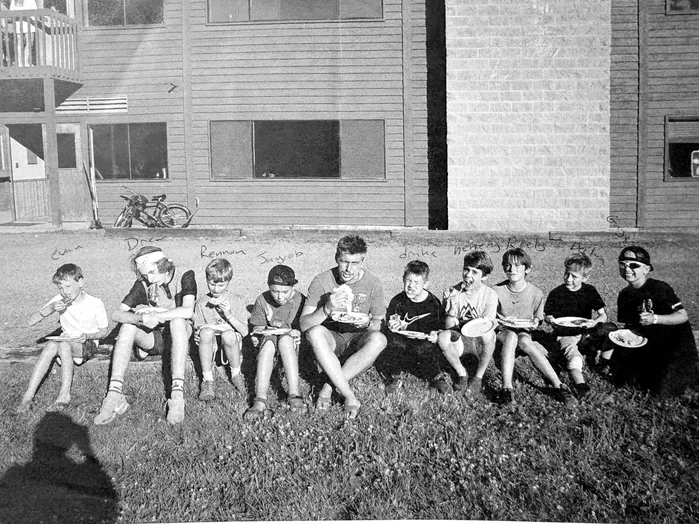
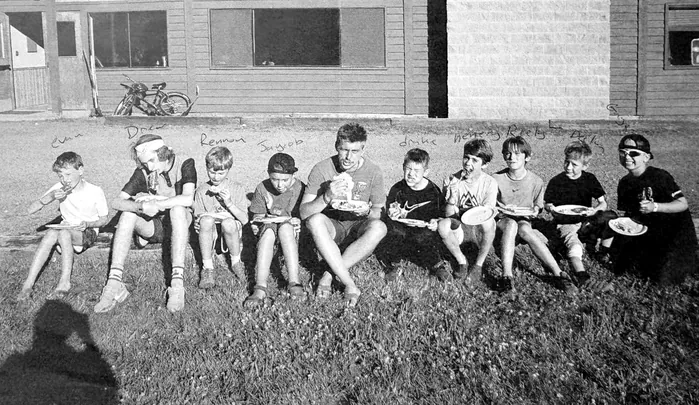
Add files via upload

diff --git a/newsstand/index.html b/newsstand/index.html
@@ -28,7 +28,7 @@
 </style>
 <!-- "?v=2026-11-05" = the date these files last changed. Change it whenever you edit them (add a letter, like 2026-11-04b, for a second change on the same day), so every visitor's browser
      fetches the new copy instead of an old saved one (no hard refresh needed). -->
-<link rel="stylesheet" href="../assets/newsstand.css?v=2026-11-07">
+<link rel="stylesheet" href="../assets/newsstand.css?v=2026-11-07b">
 <!-- Came through a storefront door? Fade in from the white light (the door sets "nr-light" just before leaving) -->
 <style>
 html.from-light body::after { content: ""; position: fixed; inset: 0; z-index: 2147483647; background: #fff; pointer-events: none; animation: nr-from-light 1.2s ease-out .1s both; }
@@ -114,8 +114,8 @@ html.from-light body::after { content: ""; position: fixed; inset: 0; z-index: 2
 
 <!-- Where the pictures live, then the data, the page-flip library, and the engine -->
 <script>window.NRNS_BASE = "../assets/img/";</script>
-<script src="../assets/data.js?v=2026-11-07b"></script>
+<script src="../assets/data.js?v=2026-11-07c"></script>
 <script src="../assets/vendor/page-flip.browser.js"></script>
-<script src="../assets/newsstand.js?v=2026-11-07"></script>
+<script src="../assets/newsstand.js?v=2026-11-07b"></script>
 </body>
 </html>

diff --git a/assets/newsstand.js b/assets/newsstand.js
@@ -146,8 +146,13 @@
         <div class="next-date abs">${esc(longDate(f.date).toUpperCase())}</div>
         ${footer("right")}`, { dark: true }),
 
-      // Last page of a preview: when the full issue arrives, and where to read the feature now
-      previewEnd: (f, is) => page(`
+      // Last page of a preview: when the full issue arrives, and where to read the feature now.
+      // (Nov 7) If the issue's preview has a "link" (data.js; Issue 19's says "Read Issue 19"), the page drops the release
+      // notice, its date and the corner arrow: just the link, in the same big type, where the notice was. (\n = new line)
+      previewEnd: (f, is) => is.preview.link ? page(`
+        ${heading(66, 40, "Preview")}
+        ${f.url ? `<a class="pv-big pv-go abs" href="${esc(f.url)}" target="_blank" rel="noopener">${esc(is.preview.link).replace(/\n/g, "<br>")}</a>` : ""}
+        ${footer("right", false)}`, { dark: true }) : page(`
         ${heading(66, 40, "Preview")}${arrow}
         <h3 class="pv-big abs">Full digital<br>issue<br>release</h3>
         <div class="pv-date abs">${esc(longDate(is.preview.until).toUpperCase())}</div>

diff --git a/assets/newsstand.css b/assets/newsstand.css
@@ -519,6 +519,9 @@ body {
 .nrns .pv-link { left: calc(66 * var(--p)); top: calc(700 * var(--p)); font-weight: 700; font-size: calc(17 * var(--p)); letter-spacing: .2em; text-transform: uppercase;
   color: var(--ink); text-decoration: underline; text-underline-offset: .35em; text-decoration-thickness: calc(2 * var(--p)); }
 .nrns .pv-link:hover { text-decoration-thickness: calc(4 * var(--p)); }
+/* (Nov 7) The big-link version (an issue's preview "link" in data.js): the link takes the notice's place, in its big type */
+.nrns .pv-go { color: var(--ink); text-decoration: underline; text-underline-offset: .1em; text-decoration-thickness: calc(6 * var(--p)); }
+.nrns .pv-go:hover { text-decoration-thickness: calc(10 * var(--p)); }
 
 /* Invisible buttons over a page picture (the "links" in data.js, e.g. TBH S1's contents rows): a faint wash on hover */
 .nrns .hot { position: absolute; display: block; border-radius: calc(6 * var(--p)); transition: background-color .2s; }

diff --git a/assets/data.js b/assets/data.js
@@ -233,7 +233,9 @@ window.NR = {
        whole issue opens by itself. Add ?full to the Newsstand address to proof the whole issue before then. */
     "dan-korus": {
       number: 19, year: 2026,
-      preview: { pages: 11, until: "2026-12-19" },
+      /* link: the end page shows only this big link to the feature online (no release notice, date or corner arrow).
+         Leave it out for Issue 01's end page. \n starts a new line. */
+      preview: { pages: 11, until: "2026-12-19", link: "Read\nIssue 19" },
       name: "Dan Korus", publication: "The Updraft",
       photoCredit: "Dan Korus",
       nameRows: ["DAN", "KO", "RUS"],

diff --git a/index.html b/index.html
@@ -103,7 +103,7 @@ img { max-width: 100%; }
      uses it (for the wood grain), and a stylesheet reads short addresses
      from its own folder, not from this page. -->
 <script>window.NRSF_BASE = new URL("assets/img/", location.href).href; window.NRNS_BASE = "assets/img/";</script>
-<script src="assets/data.js?v=20261107b"></script>
+<script src="assets/data.js?v=20261107c"></script>
 <script src="assets/storefront.js"></script>
 </body>
 </html>

diff --git a/tools/issue19-images.py b/tools/issue19-images.py
@@ -48,7 +48,9 @@ save(bw(workshop.crop((600, 180, 1200, 535))), "issue19-toc-laugh.webp", q=78, w
 # PHOTO PAGES
 # Q1, the camp photo: saved under 700 px wide on purpose, so the engine frames it whole on a black page
 # (photos 700 px and wider bleed edge to edge and would lose the kids at each end).
-save(bw(camp, 1.05), "issue19-camp.webp", q=80, width=699)
+# (Nov 7, Kathi) Cropped on purpose: the top used to cut through the upper storey at random, and the bottom showed the
+# white edge of the printed photo. Now: from just above the ground-floor windows down to the grass, the white edge left off.
+save(bw(camp.crop((0, 226, 1412, 1045)), 1.05), "issue19-camp.webp", q=80, width=699)
 # Q2, Dan and his wife: a full-bleed page (816 x 840 slot), cropped to that shape from the top
 save(bw(couple.crop((0, 30, 840, 895))), "issue19-couple.webp", q=80)
 # Q4, the workshop: the "stack" page (Dan's stacked name + the whole photo, 500 wide)
